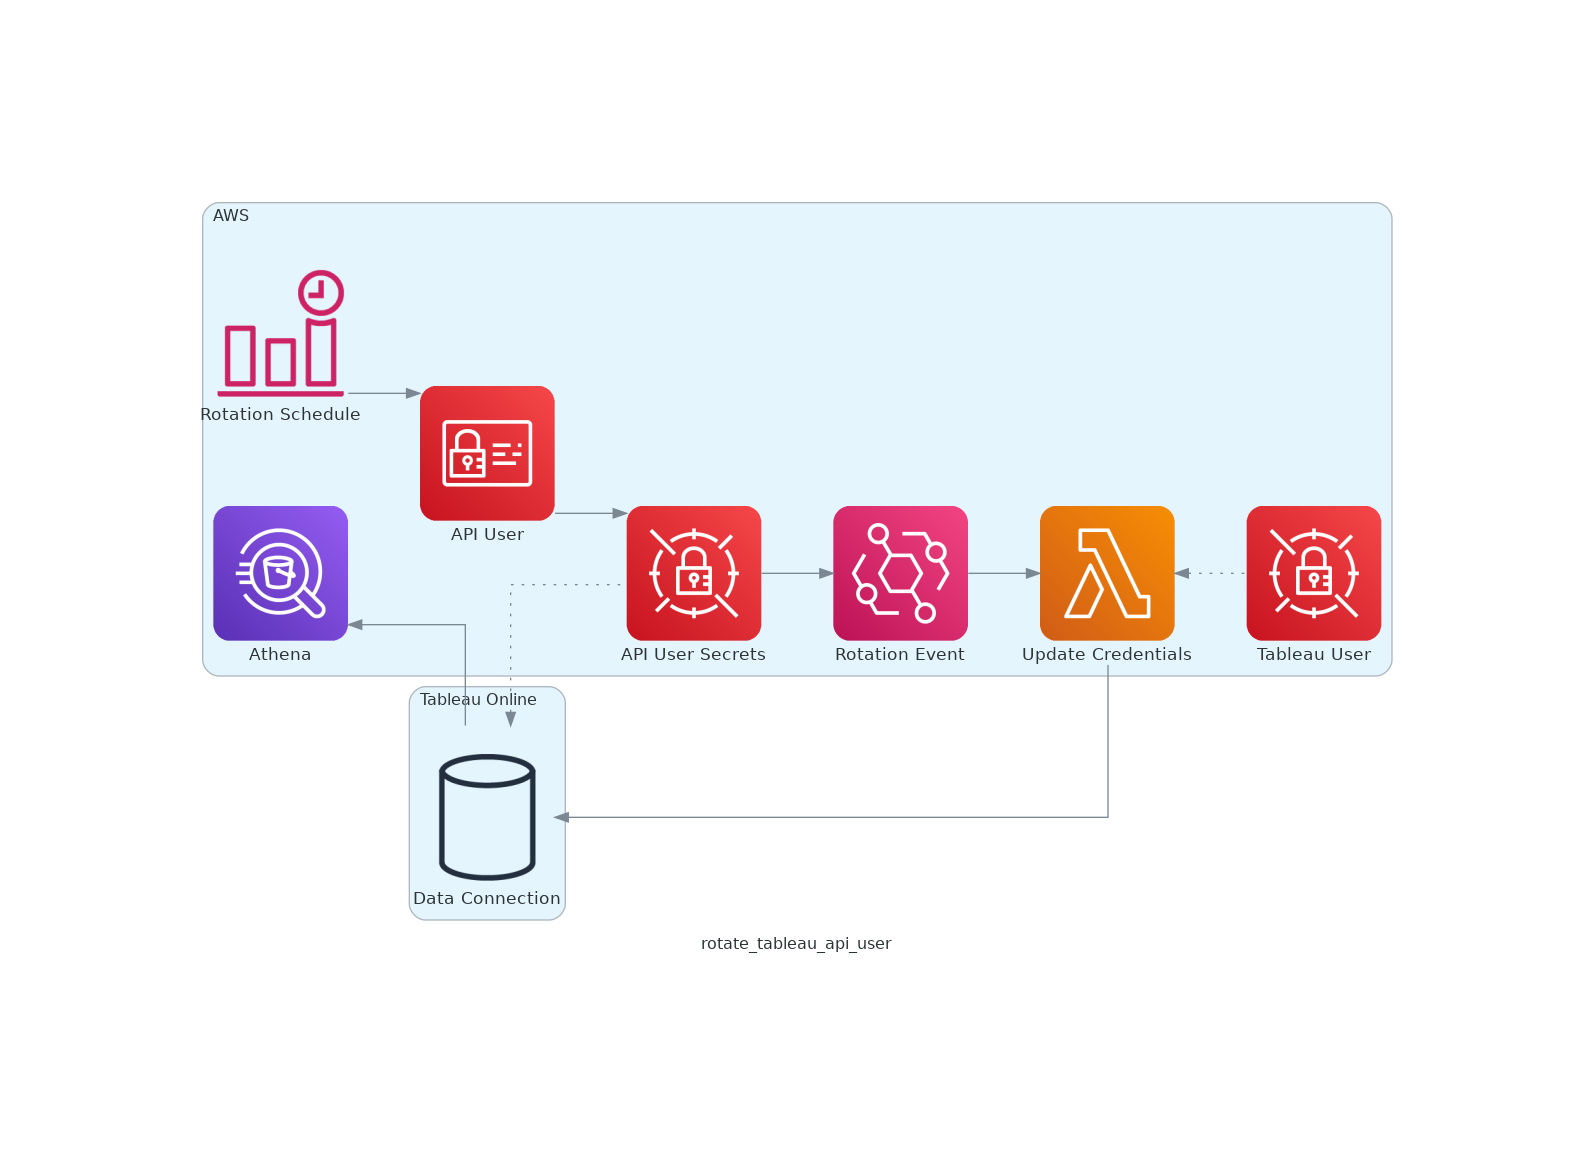
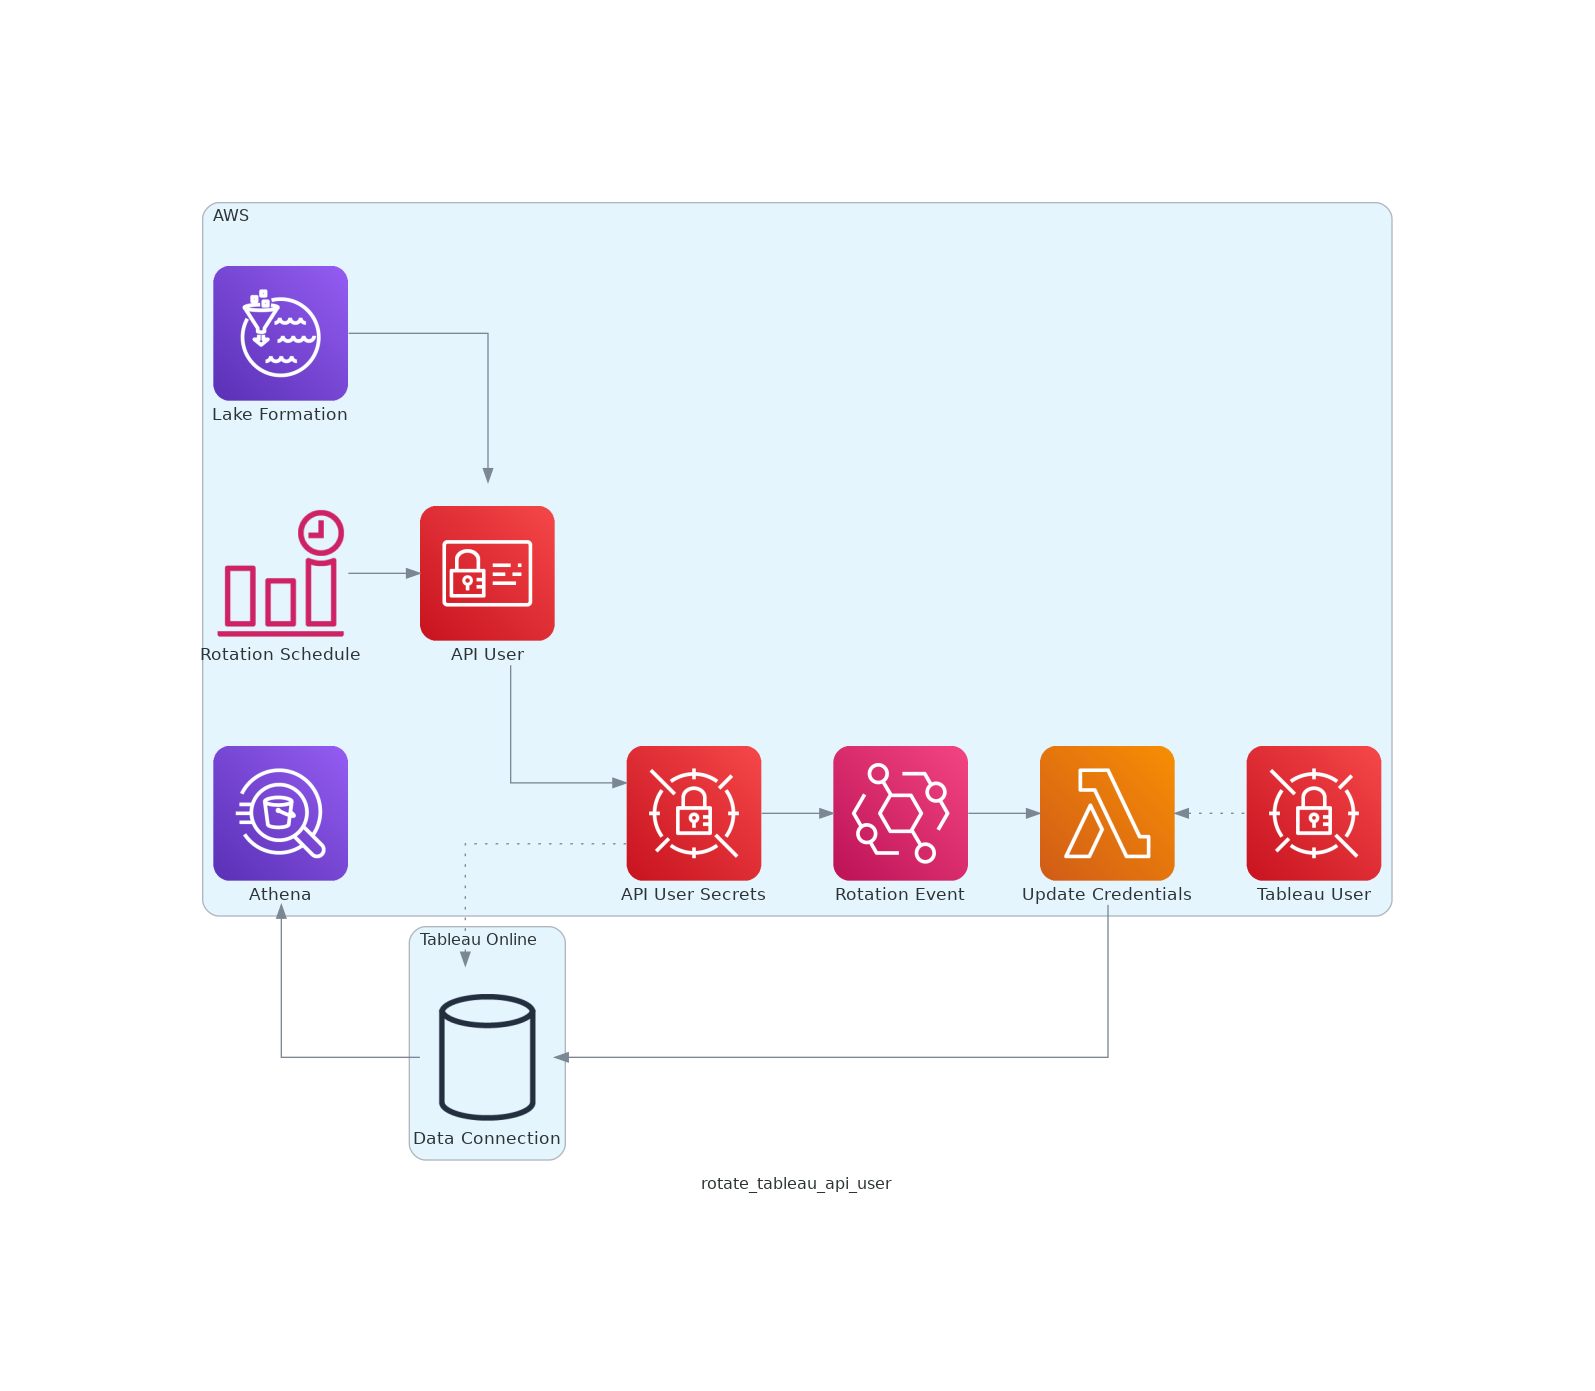
ML endpoint docs

Changed region(s): [[0.1229, 0.1216, 0.8909, 0.8514], [0.4608, 0.821, 0.553, 0.8514]]

diff --git a/diagram_as_code/rotate_tableau_api_user.py b/diagram_as_code/rotate_tableau_api_user.py
@@ -8,6 +8,7 @@ from diagrams.aws.integration import Eventbridge
 from diagrams.aws.security import SecretsManager
 from diagrams.aws.security import IdentityAndAccessManagementIam as IAM
 from diagrams.aws.general import GenericDatabase
+from diagrams.aws.analytics import LakeFormation
 
 import os
 
@@ -31,10 +32,11 @@ with Diagram(
         athena = Athena("Athena")
         lambda_fn = Lambda("Update Credentials")
         tableau_user_secret = SecretsManager("Tableau User")
+        lake_formation = LakeFormation("Lake Formation")
 
+        lake_formation  >> API_user
         schedule_rotation >> API_user >> API_user_secret >> rotation_event >> lambda_fn
         lambda_fn << Edge(style="dotted") << tableau_user_secret
-
     with Cluster("Tableau Online"):
         data_connection = GenericDatabase("Data Connection")
 

diff --git a/README.md b/README.md
@@ -14,29 +14,31 @@ In this repo you can find diagrams defined in code describing the following arch
 
 ## Architecture Blocks
 ### ETL pipeline using glue
-ETL pipelines are used to process raw data and make it usable for data science activities. In the picture below the raw data is made available through amazon Athena. Processed by Glue functions that are orchestrated by an AWS state machine. The state machine is triggered on a scheduled event. The output data is written as a tables into S3. The logs from the glue jobs are sent to cloud watch. A dashboard monitors the state machine's success and failures. This logic is pictured in the diagram below.
+ETL pipelines process raw data and make it usable for data science activities. In the picture below, raw data is made available through Amazon Athena. Glue functions, orchestrated by an AWS state machine, process the data. A scheduled event triggers the state machine on. The output data is written as a table in S3. The logs from the glue jobs are sent to cloud watch. A dashboard monitors the state machine's success and failures. This logic is pictured in the diagram below.
 ![alt text](https://github.com/alexane-rose/architecture-diagrams/blob/main/output/ETL_using_glue.png?raw=true)
 
 ### Lambda function to process data manually added by a user
-On occasion, a data sources relies on a manual file. This file is added to an S3 bucket and needs to be verified and processed before it can be used by a data pipeline.
+On occasion, a data source relies on a manual file. This file is added to an S3 bucket. The file must be verified and processed before it can be used by a data pipeline.
 ![alt text](https://github.com/alexane-rose/architecture-diagrams/blob/main/output/processing_new_s3_file.png?raw=true)
 Steps :
-- Users adds file to S3 input bucket
+- Users add files to the S3 input bucket
 - An event triggers a lambda function
 - The lambda function processes the file
-- The processed data is written to s3, where it can be read from a data pipeline.
+- The processed data is written to s3, where a data pipeline can read it.
 
 
 ### Rotate API user credentials in Tableau
-Tableau is a visualization tool to build dashboards. It is possible to connect tableau to Athena using the built in connector. When doing so credentials to an AWS API user need to be passed. For security purposes the credentials often have to be rotated. As there often multiple connections changing all credentials manually is very tedious. The method below automates the credential rotation.
+Tableau is a dashboarding tool. It is possible to connect Tableau to Athena using the built-in connector. When doing so credentials to an AWS API user need to be passed. For security purposes, the credentials often have to be rotated. As there are often multiple connections changing all credentials manually is very tedious. The method below automates the credential rotation.
 ![alt text](https://github.com/alexane-rose/architecture-diagrams/blob/main/output/rotate_tableau_api_user.png?raw=true)
 Steps :
 1. Create an API AWS IAM user.
-2. Provide the API user access to the needed Athena databases and tables using lakeformation.
+2. Provide the API user access to the needed Athena databases and tables using Lakeformation.
 3. Create a scheduled event to trigger the key rotation and save new keys in secret managers.
 4. On key rotation an event triggers a lambda function
 5. The lambda functions
 
-### Real Time Machine Learning Model deployment
-
+### Real-Time Machine Learning Model Deployment
+A Machine Learning model deployment for real-time inference requires two main building blocks: the training and the inference pipeline.
+The first  can be built in AWS Sagemaker with the folowing steps: data preprocessing and model traing, creation and registration. The model is sent to an API gateway to interfance with the inference.
+The second, is a lambda function that takes an input delivered through a user-facing API gateway. The lambda function then processes the input,  queries the API endpoint hosting the ML model and return an output to the user. Additionaly, the response is stored in DynamoDb for further analytics.
 ![alt text](https://github.com/alexane-rose/architecture-diagrams/blob/main/output/real_time_ML_deployment.png?raw=true)
